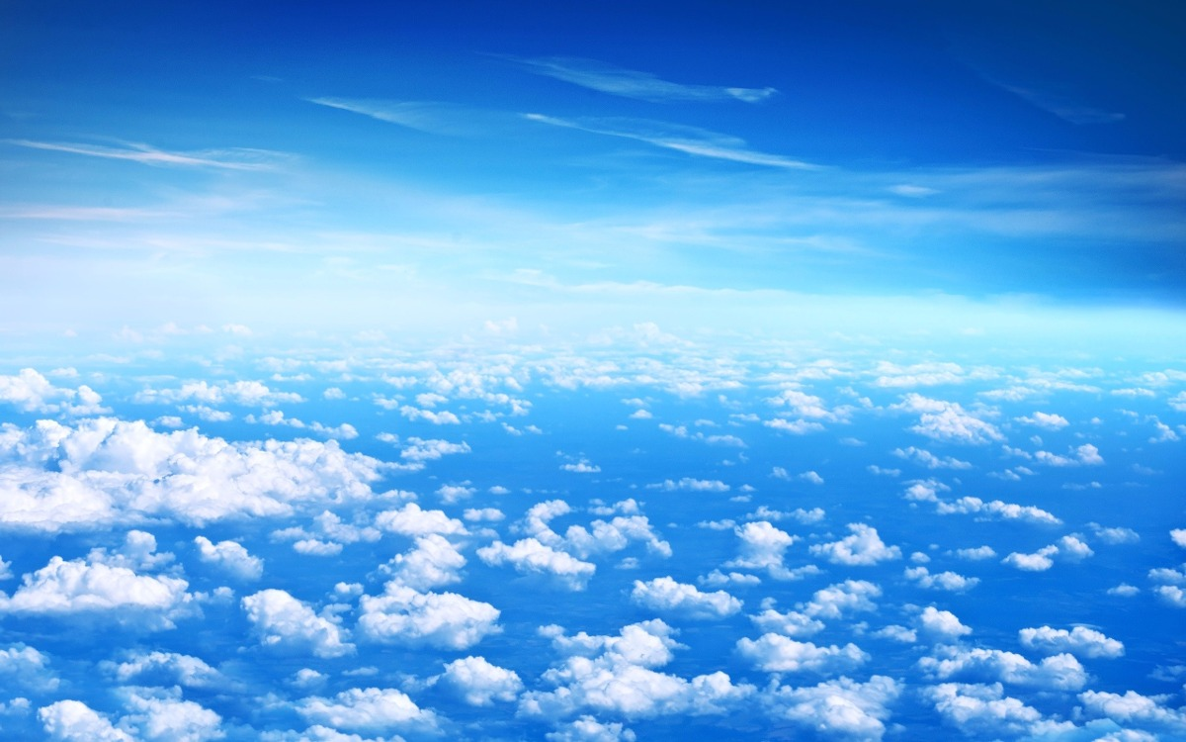
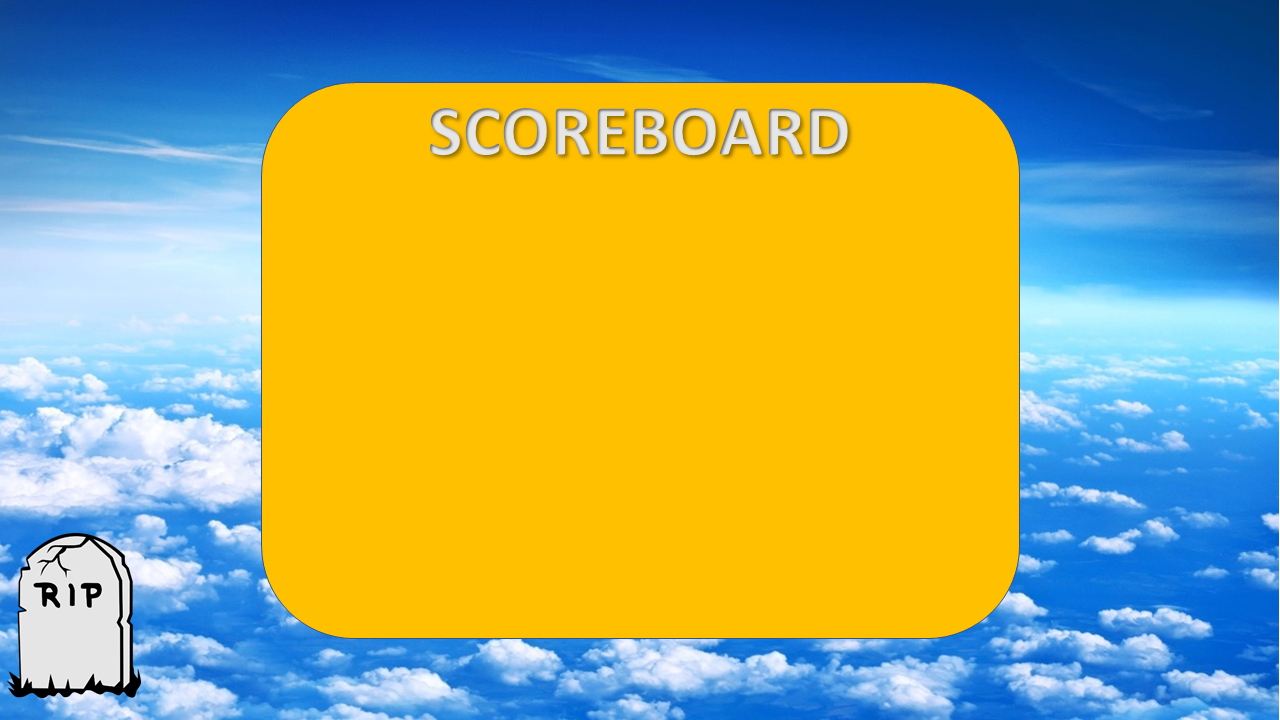
Scoreboard implementado com sucesso

diff --git a/meu_jogo/programa.py b/meu_jogo/programa.py
@@ -5,13 +5,6 @@ import pygame as pg
 import os
 import sys
 import json
-import pickle  # https://stackoverflow.com/questions/16726354/saving-the-highscore-for-a-python-game
-try:
-    with open('clock.dat', 'rb') as file:
-        clock = pickle.load(file)
-except:
-    clock = 0
-print("High clock: %d" % clock)
 
 pg.init()
 pg.mixer.init()
@@ -188,16 +181,16 @@ def mostra_tempo():
     with open("highscore.json", 'r') as f:
         dicionario = json.load(f)
     scoreboard = {}
-    lugarY = 400
-    if len(dicionario["highscore"]) < 5:
+    lugarY = 130
+    if len(dicionario["highscore"]) < 8:
         for i in range(len(dicionario["highscore"])):
-            scoreboard["{i}"] = font.render(("{}o: {}".format((i+1), dicionario["highscore"][i])), True,(255,255,255))
-            janela.blit(scoreboard["{i}"], ((largura/2), lugarY))
+            scoreboard["{i}"] = font.render(("{}o: {} segundos".format((i+1), dicionario["highscore"][i])), True,(255,255,255))
+            janela.blit(scoreboard["{i}"], ((largura*0.35), lugarY))
             lugarY += 50
     else: 
-        for i in range(5):
-            scoreboard["{i}"] = font.render(("{}o: {}".format((i+1), dicionario["highscore"][i])), True,(255,255,255))
-            janela.blit(scoreboard["{i}"], ((largura/2), lugarY))
+        for i in range(8):
+            scoreboard["{i}"] = font.render(("{}o: {} segundos".format((i+1), dicionario["highscore"][i])), True,(255,255,255))
+            janela.blit(scoreboard["{i}"], ((largura*0.35), lugarY))
             lugarY += 50
     
     while True:
